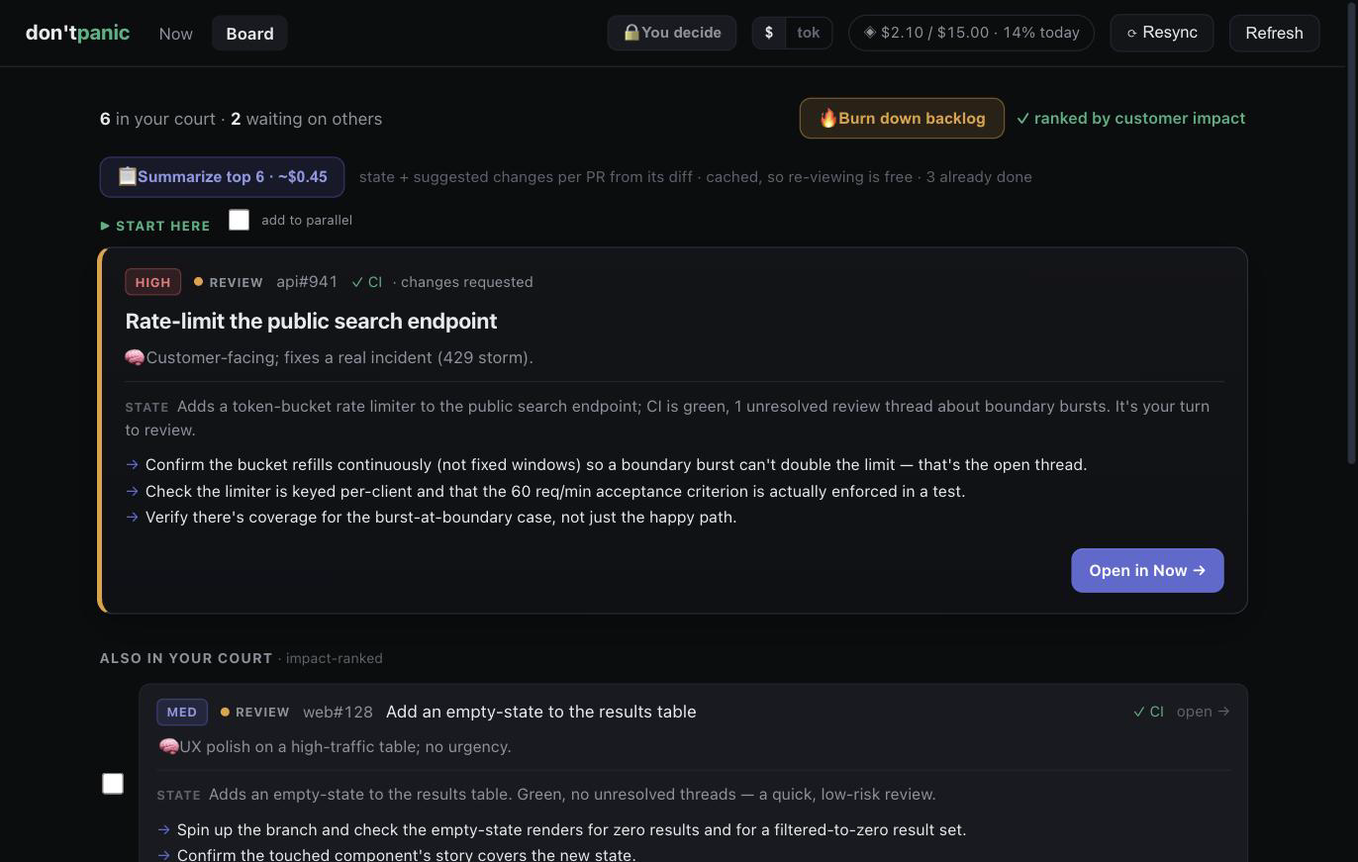
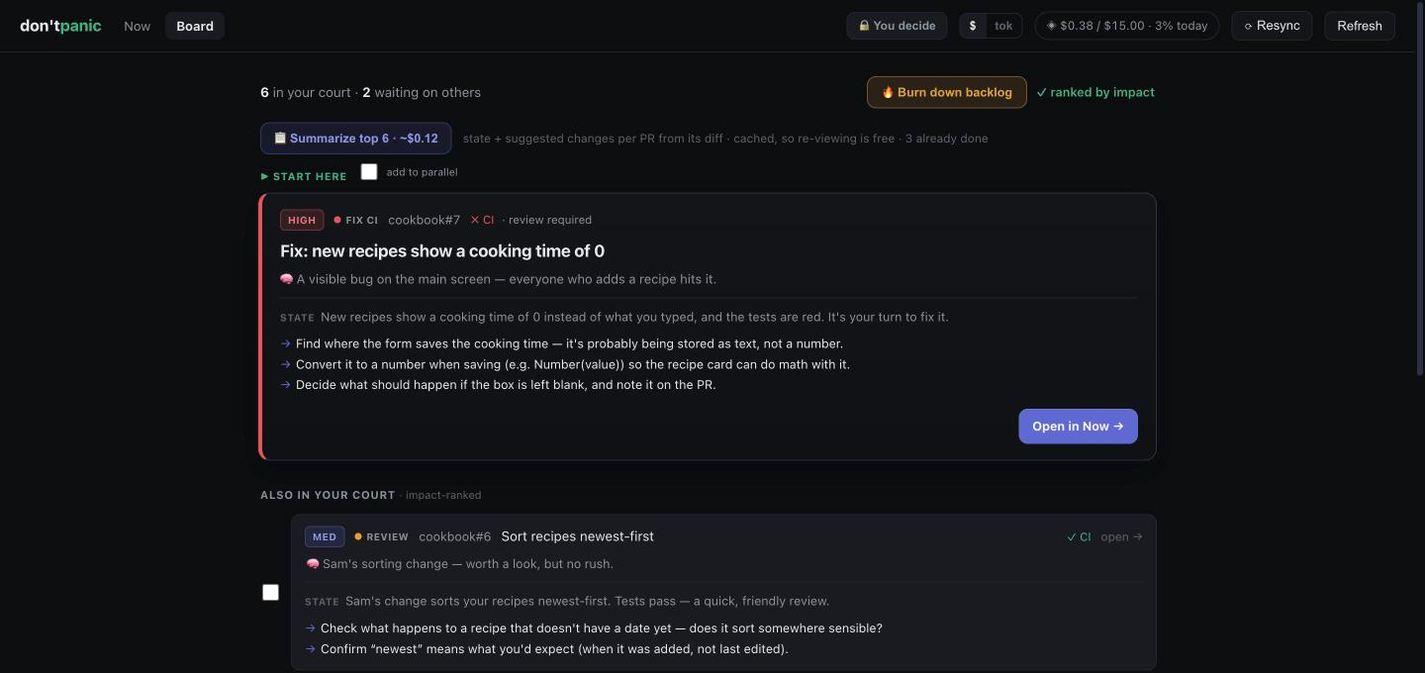
Beginner-friendly demo + new screenshots reflecting the learn-with-agents framing
Rework the demo fixtures from a senior-backend theme to a small "build a
recipe app with a friend" example so a first-time viewer isn't intimidated.
Add per-PR review jobs so each parallel card reasons about its own change,
and add a coaching screenshot (the clearest "you're learning" moment) to the
README. Soften "customer impact" -> "impact" throughout.

diff --git a/src/commands/demo.ts b/src/commands/demo.ts
@@ -1,16 +1,18 @@
 // Demo mode: serve the real dashboard pages backed by canned, public-safe fixtures —
-// no gh, no claude, no token spend. Used to capture UI screenshots for docs.
+// no gh, no claude, no token spend. Used to try the UI and capture screenshots.
+// The scenario is deliberately BEGINNER-FRIENDLY: you're building a small recipe app
+// ("Cookbook") with a friend (Sam), so the tasks, context, and coaching are approachable
+// to someone new to building — not senior-backend jargon.
 import Fastify from "fastify";
 import fastifyStatic from "@fastify/static";
 
-// ---- synthetic, public-safe data (neutral repos/names/titles) ----
 const pr = (o: Record<string, unknown>) => ({
-  repo: `acme/${o.shortRepo}`,
-  shortRepo: o.shortRepo,
+  repo: "you/cookbook",
+  shortRepo: "cookbook",
   number: o.number,
   title: o.title,
-  url: `https://github.com/acme/${o.shortRepo}/pull/${o.number}`,
-  author: o.author ?? "octocat",
+  url: `https://github.com/you/cookbook/pull/${o.number}`,
+  author: o.author ?? "you",
   turn: o.turn,
   ci: o.ci ?? "passing",
   mergeable: o.mergeable ?? "MERGEABLE",
@@ -20,30 +22,30 @@ const pr = (o: Record<string, unknown>) => ({
 });
 
 const MINE = [
-  pr({ shortRepo: "api", number: 903, title: "Fix cache invalidation on profile update", turn: "mine_fix", ci: "failing", mergeable: "CONFLICTING", reviewDecision: "REVIEW_REQUIRED" }),
-  pr({ shortRepo: "web", number: 112, title: "Debounce autosave to cut redundant writes", turn: "mine_respond", ci: "passing", reviewDecision: "CHANGES_REQUESTED" }),
-  pr({ shortRepo: "api", number: 870, title: "Bump dependencies + regenerate lockfile", turn: "ready_merge", ci: "passing", reviewDecision: "APPROVED" }),
-  pr({ shortRepo: "web", number: 131, title: "Add keyboard nav to the command palette", turn: "mine_request_review" }),
-  pr({ shortRepo: "api", number: 812, title: "Retry transient 5xx from the payments provider", turn: "theirs_review", reviewers: ["alexk"] }),
+  pr({ number: 7, title: "Fix: new recipes show a cooking time of 0", turn: "mine_fix", ci: "failing", reviewDecision: "REVIEW_REQUIRED" }),
+  pr({ number: 5, title: "Add a favorite ♥ button to recipes", turn: "mine_respond", ci: "passing", reviewDecision: "CHANGES_REQUESTED" }),
+  pr({ number: 8, title: "Add a friendly welcome screen for your first recipe", turn: "ready_merge", ci: "passing", reviewDecision: "APPROVED" }),
+  pr({ number: 9, title: "Search your recipes by ingredient", turn: "mine_request_review" }),
+  pr({ number: 4, title: "Add a photo to each recipe", turn: "theirs_review", reviewers: ["sam"] }),
 ];
 const REVIEW = [
-  pr({ shortRepo: "api", number: 941, title: "Rate-limit the public search endpoint", turn: "mine_review", author: "priyanair", ci: "passing", reviewDecision: "CHANGES_REQUESTED" }),
-  pr({ shortRepo: "web", number: 128, title: "Add an empty-state to the results table", turn: "mine_review", author: "jlee", ci: "passing" }),
-  pr({ shortRepo: "web", number: 130, title: "Skeleton loaders for the dashboard cards", turn: "theirs_author", author: "octocat" }),
+  pr({ number: 6, title: "Sort recipes newest-first", turn: "mine_review", author: "sam" }),
+  pr({ number: 3, title: "Add a Print button to a recipe", turn: "mine_review", author: "sam" }),
+  pr({ number: 10, title: "Add a dark-mode toggle", turn: "theirs_author", author: "sam" }),
 ];
 
 const EST = {
-  prioritize: { usd: 0.5, tokens: 35000, n: 0, learned: false },
-  enrich: { usd: 0.7, tokens: 45000, n: 0, learned: false },
-  review: { usd: 1.0, tokens: 70000, n: 3, learned: true },
-  fix: { usd: 2.0, tokens: 120000, n: 1, learned: true },
-  meeting: { usd: 0.2, tokens: 15000, n: 0, learned: false },
-  ping: { usd: 0.15, tokens: 10000, n: 0, learned: false },
-  brief: { usd: 0.15, tokens: 40000, n: 4, learned: true },
+  prioritize: { usd: 0.05, tokens: 12000, n: 0, learned: false },
+  enrich: { usd: 0.07, tokens: 14000, n: 0, learned: false },
+  review: { usd: 0.08, tokens: 9000, n: 3, learned: true },
+  fix: { usd: 0.12, tokens: 14000, n: 1, learned: true },
+  meeting: { usd: 0.05, tokens: 8000, n: 0, learned: false },
+  ping: { usd: 0.03, tokens: 5000, n: 0, learned: false },
+  brief: { usd: 0.04, tokens: 10000, n: 3, learned: true },
 };
 
 const STATUS = {
-  today: 2.1, session: 2.1, todayTokens: 480000, sessionTokens: 480000,
+  today: 0.38, session: 0.38, todayTokens: 92000, sessionTokens: 92000,
   limitUsd: 15, limitTokens: 2000000, est: EST, autoSpend: false, defaultAgent: "claude",
   lastSyncAt: 1786000000000, codex: true,
   turnOrder: ["mine_review", "mine_respond", "ready_merge", "mine_fix", "mine_request_review"],
@@ -51,111 +53,139 @@ const STATUS = {
 };
 
 const PLAN = {
-  date: "Tuesday, Aug 18", meetingCount: 1, calendar: true, focusMins: 120, deferred: 2, courtZero: "11:40a",
+  date: "Tuesday, Aug 18", meetingCount: 1, calendar: true, focusMins: 95, deferred: 1, courtZero: "11:05a",
   day: [
-    { type: "task", shortRepo: "api", number: 941, title: REVIEW[0].title, kind: "Review", mins: 20, start: "9:00a" },
-    { type: "meeting", id: "m1", start: "9:30a", title: "AI Pod Standup", kind: "standup", mins: 30 },
-    { type: "task", shortRepo: "web", number: 128, title: REVIEW[1].title, kind: "Review", mins: 20, start: "10:00a" },
-    { type: "task", shortRepo: "api", number: 870, title: MINE[2].title, kind: "Merge", mins: 10, start: "10:20a" },
-    { type: "task", shortRepo: "api", number: 903, title: MINE[0].title, kind: "Fix CI", mins: 20, start: "10:30a" },
-    { type: "task", shortRepo: "web", number: 112, title: MINE[1].title, kind: "Respond", mins: 15, start: "10:50a" },
+    { type: "task", shortRepo: "cookbook", number: 7, title: MINE[0].title, kind: "Fix CI", mins: 20, start: "9:00a" },
+    { type: "meeting", id: "m1", start: "9:30a", title: "Catch up with Sam", kind: "meeting", mins: 20 },
+    { type: "task", shortRepo: "cookbook", number: 6, title: REVIEW[0].title, kind: "Review", mins: 15, start: "9:50a" },
+    { type: "task", shortRepo: "cookbook", number: 8, title: MINE[2].title, kind: "Merge", mins: 10, start: "10:05a" },
+    { type: "task", shortRepo: "cookbook", number: 5, title: MINE[1].title, kind: "Respond", mins: 15, start: "10:15a" },
+    { type: "task", shortRepo: "cookbook", number: 9, title: MINE[3].title, kind: "Assign", mins: 10, start: "10:30a" },
   ],
 };
 
+// The Now page features your own bug fix (#7) — the most relatable "build with an agent" moment.
 const CONTEXT = {
-  changeType: "backend",
-  prompt: "# Review acme/api#941 — Rate-limit the public search endpoint\n\n[The PR's full unified diff is spliced in here when the agent runs.]",
+  changeType: "frontend",
+  prompt: "# Fix the failing tests on you/cookbook#7 — new recipes show a cooking time of 0\n\n[The failing test output is included here when the agent runs.]",
   sources: [
-    { name: "GitHub", connected: true, summary: "6-file diff (+184/−12); 3 review threads, 1 unresolved — e.g. “Use a sliding window, not fixed buckets, so a burst at the boundary can't double the limit.” CI passing." },
-    { name: "Linear", connected: true, summary: "Linked ENG-742 — acceptance criteria to check against." },
-    { name: "Slack", connected: false, summary: "Gather full context to surface the relevant discussion + the customer/incident 'why'." },
-    { name: "Logfire", connected: false, summary: "Not connected yet — will surface prod health for the touched paths." },
-    { name: "Braintrust", connected: false, summary: "No LLM / prompt change detected — nothing to pull." },
+    { name: "GitHub", connected: true, summary: "3-file change (+22/−4); 1 comment from Sam — “nice! does this handle when the cooking-time box is left blank?”. Tests are currently red." },
+    { name: "Linear", connected: false, summary: "No linked issue — totally fine for a personal project." },
+    { name: "Slack", connected: false, summary: "Gather full context to pull in what people said about this." },
   ],
 };
 
 const ENRICH = {
-  slack: "In #incidents, a customer hit 429s during a traffic spike last week — this endpoint was the culprit, so the limiter needs to be burst-tolerant.",
-  slackUrl: "https://example.slack.com/archives/C123/p123",
-  linear: "ENG-742: Add rate limiting to public search (High priority)",
-  linearUrl: "https://linear.app/acme/issue/ENG-742",
-  acceptance: "A single client cannot exceed 60 req/min, and a burst at a window boundary must not allow 2× the limit.",
+  slack: "A friend who tried the app messaged you: “I added a recipe and the cooking time shows 0 instead of the 30 minutes I typed.”",
+  slackUrl: "https://example.com/chat/123",
+  linear: "none found",
+  linearUrl: "",
+  acceptance: "A recipe should show the cooking time you actually entered — not 0.",
   explainer:
-    "src/search/handler.py is the single entry point for the public /search API — every unauthenticated query lands here. Today it has no rate limiting, so one noisy client can saturate the backend (the #incidents thread traces last week's 429 storm to exactly this path).\n\nThis PR adds a token-bucket limiter keyed by client IP, wired in as middleware before the handler. The bucket refills continuously rather than in fixed windows, which is the crux of the one unresolved review thread: fixed windows let a client fire a full burst at the end of one window and the start of the next, doubling the effective rate.\n\nThe deliverable is the limiter module, the middleware wiring, config for the per-client rate, and tests covering the boundary-burst case.",
+    "The recipe form (RecipeForm.js) saves whatever you type in the “cooking time” box. Right now it saves it as text — the characters “3” and “0” — not the number 30.\n\nLater, the recipe card tries to do a little math with the cooking time to show it nicely. Doing math on text gives “not a number”, which the app ends up showing as 0. That's the bug your friend hit.\n\nThe fix is to turn the text into a real number the moment it's saved. This is one of the most common surprises when you're new: the computer treats “30” (text) and 30 (a number) as completely different things.",
   gaps: [
-    { gap: "No load-test evidence that the limiter holds under the incident's traffic shape.", action: "Ask the author in #eng to attach a k6 run at ~2× the incident's peak RPS." },
+    { gap: "It's not decided what should happen if the cooking-time box is left empty.", action: "Make a quick call (with Sam?) — default it to blank, or ask again? Jot the decision on the PR so future-you remembers." },
   ],
   coach: {
-    concept: "Token bucket vs fixed-window rate limiting",
-    note: "A token bucket refills at a steady rate and allows short bursts up to the bucket size, while smoothing the sustained rate — unlike fixed windows, which permit a 2× burst across a boundary. That boundary-burst is exactly what the unresolved thread is guarding against.",
+    concept: "Text vs. numbers",
+    note: "Your form stored the cooking time as text (\"30\"), but the app tried to do math with it — and math on text gives \"NaN\", which showed up as 0. Converting it with Number(...) when you save is the fix. \"What type is this value — text or a number?\" is a question you'll ask constantly, and catching it early saves a lot of head-scratching.",
   },
 };
 
 const PRIORITY = {
-  topKey: "api#941",
-  topReason: "It's a customer-facing rate-limit fix tied to a real incident (429s during a traffic spike) — closing your review unblocks a High-priority Linear issue.",
+  topKey: "cookbook#7",
+  topReason: "It's a bug anyone sees the moment they add a recipe — the cooking time shows 0. Fixing it makes the whole app feel trustworthy, so it's the best place to start.",
   ranked: [
-    { key: "api#941", impact: "high", reason: "Customer-facing; fixes a real incident (429 storm)." },
-    { key: "web#128", impact: "med", reason: "UX polish on a high-traffic table; no urgency." },
-    { key: "api#870", impact: "low", reason: "Dependency bump — approved & green, just merge." },
-    { key: "api#903", impact: "high", reason: "Your CI is red on a cache-correctness bug." },
-    { key: "web#112", impact: "med", reason: "Reviewer asked for a debounce tweak." },
+    { key: "cookbook#7", impact: "high", reason: "A visible bug on the main screen — everyone who adds a recipe hits it." },
+    { key: "cookbook#6", impact: "med", reason: "Sam's sorting change — worth a look, but no rush." },
+    { key: "cookbook#8", impact: "low", reason: "The welcome screen is done and approved — just merge it." },
+    { key: "cookbook#5", impact: "med", reason: "Sam asked a question on your favorite-button PR." },
   ],
 };
 
 const BRIEFS: Record<string, { state: string; suggestions: string[] }> = {
-  "api#941": {
-    state: "Adds a token-bucket rate limiter to the public search endpoint; CI is green, 1 unresolved review thread about boundary bursts. It's your turn to review.",
+  "cookbook#7": {
+    state: "New recipes show a cooking time of 0 instead of what you typed, and the tests are red. It's your turn to fix it.",
     suggestions: [
-      "Confirm the bucket refills continuously (not fixed windows) so a boundary burst can't double the limit — that's the open thread.",
-      "Check the limiter is keyed per-client and that the 60 req/min acceptance criterion is actually enforced in a test.",
-      "Verify there's coverage for the burst-at-boundary case, not just the happy path.",
+      "Find where the form saves the cooking time — it's probably being stored as text, not a number.",
+      "Convert it to a number when saving (e.g. Number(value)) so the recipe card can do math with it.",
+      "Decide what should happen if the box is left blank, and note it on the PR.",
     ],
   },
-  "web#128": {
-    state: "Adds an empty-state to the results table. Green, no unresolved threads — a quick, low-risk review.",
-    suggestions: ["Spin up the branch and check the empty-state renders for zero results and for a filtered-to-zero result set.", "Confirm the touched component's story covers the new state."],
+  "cookbook#6": {
+    state: "Sam's change sorts your recipes newest-first. Tests pass — a quick, friendly review.",
+    suggestions: [
+      "Check what happens to a recipe that doesn't have a date yet — does it sort somewhere sensible?",
+      "Confirm “newest” means what you'd expect (when it was added, not last edited).",
+    ],
   },
-  "api#870": {
-    state: "Routine dependency bump + lockfile regen. Approved and green — ready to merge.",
-    suggestions: ["Skim the lockfile diff for any unexpected major-version jumps, then merge."],
+  "cookbook#8": {
+    state: "A welcome screen for before you've saved any recipes. Done and approved — ready to merge.",
+    suggestions: ["Give it one last look at phone size, then merge it."],
   },
 };
 
-const REVIEW_JOB = {
-  id: "job1_941", repo: "acme/api", number: 941, kind: "review", status: "done", backend: "claude",
-  steps: ["Assembling diff + context… (claude)", "Read diff (196 lines) + gathered context. Reviewing…", "✓ Review ready."],
-  segments: [
-    { kind: "reasoning", text: "Let me check how the limiter tracks time.\nThe bucket refills based on elapsed wall-clock, which is good — that's continuous, not fixed windows. But I want to confirm the boundary case the reviewer flagged." },
-    { kind: "tool", text: "Grep" },
-    { kind: "reasoning", text: "The test file covers a steady-rate case and a single-burst case, but I don't see a test that fires a burst straddling two windows. That's the exact scenario from the incident, so it should be covered." },
-    { kind: "text", text: '{"verdict":"request_changes","summary":"Solid token-bucket implementation, but the boundary-burst case the reviewer raised isn\'t tested.","findings":[...]}' },
-  ],
-  result: {
-    verdict: "request_changes",
-    summary: "Solid token-bucket implementation that matches the incident's need, but the boundary-burst case the open thread raises has no test — add one before merging.",
-    findings: [
-      { point: "No test fires a burst straddling two refill intervals — the exact 2× scenario from the incident.", file: "tests/test_ratelimit.py", line: 88 },
-      { point: "The per-client key uses the raw IP; behind a proxy this collapses all clients to one. Confirm X-Forwarded-For handling.", file: "src/search/limiter.py", line: 34 },
+// Reviewing Sam's PRs — a gentle, encouraging approve. One job per PR so each
+// review card in the parallel grid reads about its own change (not a shared blurb).
+const REVIEW_JOBS: Record<number, any> = {
+  6: {
+    id: "job1_6", repo: "you/cookbook", number: 6, kind: "review", status: "done", backend: "claude",
+    steps: ["Assembling the change + context… (claude)", "Read the change (18 lines). Reviewing…", "✓ Review ready."],
+    segments: [
+      { kind: "reasoning", text: "Let me see how Sam's change sorts the recipes.\nIt orders them by the date each recipe was added, newest first — that matches what \"newest-first\" should mean." },
+      { kind: "tool", text: "Read" },
+      { kind: "reasoning", text: "One thing to check: a brand-new recipe that hasn't been saved has no date yet. It looks like those fall to the bottom rather than erroring, which is fine. The change is small and safe." },
+      { kind: "text", text: '{"verdict":"approve","summary":"Clean, safe change — recipes now show newest-first...","findings":[...]}' },
     ],
+    result: {
+      verdict: "approve",
+      summary: "Nice — recipes now show newest-first, and ones without a date still behave sensibly. Good to merge.",
+      findings: [
+        { point: "Optional idea: show the date on each recipe card so the order is obvious to anyone looking.", file: "RecipeCard.js", line: 12 },
+      ],
+    },
+    costUsd: 0.08, tokens: 9200, durationMs: 16000,
   },
-  costUsd: 0.91, tokens: 68400, durationMs: 41000,
+  3: {
+    id: "job1_3", repo: "you/cookbook", number: 3, kind: "review", status: "done", backend: "claude",
+    steps: ["Assembling the change + context… (claude)", "Read the change (14 lines). Reviewing…", "✓ Review ready."],
+    segments: [
+      { kind: "reasoning", text: "Sam added a \"Print\" button to a recipe. Let me check what it actually prints.\nIt opens the browser's print dialog showing just the recipe — not the site header or the other buttons." },
+      { kind: "tool", text: "Read" },
+      { kind: "reasoning", text: "It uses a print-only stylesheet, so the page still looks normal on screen and only the recipe ends up on paper. Small and safe." },
+      { kind: "text", text: '{"verdict":"approve","summary":"Clean print view — just the recipe...","findings":[...]}' },
+    ],
+    result: {
+      verdict: "approve",
+      summary: "Prints cleanly — just the recipe, none of the site chrome. Good to merge.",
+      findings: [
+        { point: "Optional: add a little page margin so the title isn't right against the edge of the paper.", file: "RecipeView.js", line: 8 },
+      ],
+    },
+    costUsd: 0.08, tokens: 8600, durationMs: 15000,
+  },
 };
+const REVIEW_JOB = REVIEW_JOBS[6];
+function reviewJobFor(task: string | undefined): any {
+  const n = Number((task || "").split("#")[1]);
+  return REVIEW_JOBS[n] || REVIEW_JOB;
+}
 
+// Fixing your own bug (#7) — a small, readable change you approve.
 const FIX_JOB = {
-  id: "fix1_903", repo: "acme/api", number: 903, branch: "fix/cache-invalidation", status: "proposed", backend: "codex",
-  steps: ["Preparing isolated clone… (codex)", "Cloned (isolated, partial).", "Checking out PR #903 in the isolated clone…", "✓ Proposed a diff — review it, then push when you're happy."],
+  id: "fix1_7", repo: "you/cookbook", number: 7, branch: "fix/cooking-time", status: "proposed", backend: "claude",
+  steps: ["Preparing a safe copy of your project… (claude)", "Made a copy (it won't touch your working folder).", "Checking out PR #7…", "✓ Proposed a change — read it, then apply it when you're happy."],
   segments: [
-    { kind: "reasoning", text: "The failing test expects the profile cache to be evicted on update, but the update path only writes the DB. I need to invalidate the cache key after the write commits." },
+    { kind: "reasoning", text: "The failing test says a recipe saved with \"30\" shows 0. The form is storing the cooking time as text, and the recipe card does math with it — math on text gives NaN, shown as 0." },
     { kind: "tool", text: "Edit" },
-    { kind: "reasoning", text: "Added an explicit cache.delete(profile_key) after the transaction commits, and a test asserting a stale read can't happen." },
+    { kind: "reasoning", text: "I converted the value to a number when it's saved, and added a small test: adding \"30\" should show 30, not 0." },
   ],
-  diffStat: "2 files changed, 18 insertions(+), 3 deletions(-)",
-  diff: "diff --git a/src/profile/service.py b/src/profile/service.py\n@@ -41,6 +41,9 @@ def update_profile(uid, data):\n     with db.transaction():\n         db.profiles.update(uid, data)\n+    # Invalidate the cache AFTER the write commits, or a concurrent read repopulates stale data.\n+    cache.delete(profile_key(uid))\n     return db.profiles.get(uid)\n",
-  costUsd: null, tokens: 51200,
+  diffStat: "2 files changed, 9 insertions(+), 2 deletions(-)",
+  diff: "diff --git a/src/RecipeForm.js b/src/RecipeForm.js\n@@ -18,7 +18,8 @@ function saveRecipe(form) {\n   const recipe = {\n     name: form.name,\n-    cookTime: form.cookTime,\n+    // Store the cooking time as a number so the recipe card can do math with it.\n+    cookTime: Number(form.cookTime) || 0,\n   };\n   return db.recipes.add(recipe);\n",
+  costUsd: 0.12, tokens: 14200,
 };
 
-/** Start a demo dashboard: real pages, canned fixtures, no external calls. */
+/** Start a demo dashboard: real pages, canned beginner-friendly fixtures, no external calls. */
 export async function startDemoDashboard(port: number, pubDir: string): Promise<void> {
   const app = Fastify({ logger: false });
   await app.register(fastifyStatic, { root: pubDir, prefix: "/" });
@@ -163,21 +193,24 @@ export async function startDemoDashboard(port: number, pubDir: string): Promise<
   app.get("/parallel", (_req, reply) => reply.sendFile("parallel.html"));
 
   app.get("/api/status", async () => STATUS);
-  app.get("/api/prs", async () => ({ me: "octocat", mine: MINE, review: REVIEW }));
+  app.get("/api/prs", async () => ({ me: "you", mine: MINE, review: REVIEW }));
   app.get("/api/plan", async () => PLAN);
   app.post("/api/priority", async () => PRIORITY);
   app.get("/api/briefs", async () => ({ briefs: BRIEFS }));
   app.post("/api/briefs", async () => ({ briefs: BRIEFS }));
-  app.get("/api/now", async () => ({ task: { ...REVIEW[0], turn: "mine_review" }, context: CONTEXT }));
+  app.get("/api/now", async () => ({ task: { ...MINE[0], turn: "mine_fix" }, context: CONTEXT }));
   app.get("/api/now/prompt", async () => ({ prompt: CONTEXT.prompt, gathered: true }));
   app.post("/api/now/enrich", async () => ENRICH);
-  app.post("/api/now/launch", async () => ({ jobId: REVIEW_JOB.id }));
+  app.post<{ Querystring: { task?: string } }>("/api/now/launch", async (req) => ({ jobId: reviewJobFor(req.query.task).id }));
   app.post("/api/now/fix", async () => ({ jobId: FIX_JOB.id }));
-  app.get("/api/jobs/:id", async () => REVIEW_JOB);
+  app.get<{ Params: { id: string } }>("/api/jobs/:id", async (req) => {
+    const hit = Object.values(REVIEW_JOBS).find((j) => j.id === req.params.id);
+    return hit || REVIEW_JOB;
+  });
   app.get("/api/fix/:id", async () => FIX_JOB);
   app.get<{ Querystring: { id?: string } }>("/api/meeting", async () => ({
-    title: "AI Pod Standup", kind: "standup", when: "9:30–10:00 AM", attendees: ["you", "teammate-a", "teammate-b"],
-    prep: "Shipped: api#870 (deps). In review: api#812. Today: fix api#903 (cache), review api#941 (rate limit).",
+    title: "Catch up with Sam", kind: "meeting", when: "9:30–9:50 AM", attendees: ["you", "sam"],
+    prep: "Quick check-in on the recipe app. Shipped: the welcome screen (#8). Today: fixing the cooking-time bug (#7). Ask Sam: what should a blank cooking time do?",
     conferenceUrl: "", htmlLink: "",
   }));
 

diff --git a/src/commands/public/index.html b/src/commands/public/index.html
@@ -370,7 +370,7 @@
         const top = court[0];
         const rest = court.slice(1);
         const rankSlot = IMPMAP
-          ? `<span class="ranked-note">✓ ranked by customer impact</span>`
+          ? `<span class="ranked-note">✓ ranked by impact</span>`
           : `<button class="btn-rank" id="rankBtn">🧠 Rank by impact · <span class="cost" data-cost="prioritize"></span></button><span class="cost-note">reasons over your queue</span>`;
 
         const heroHtml = top
@@ -391,7 +391,7 @@
           ${briefBar()}
           <div id="burnConfirm" class="burn-confirm" style="display:none"></div>
           ${heroHtml}
-          ${rest.length ? `<h2>Also in your court <span class="nt">· ${IMPMAP ? "impact-ranked" : "heuristic order — rank by impact to sort by customer impact"}</span></h2>${restHtml}` : ""}
+          ${rest.length ? `<h2>Also in your court <span class="nt">· ${IMPMAP ? "impact-ranked" : "heuristic order — rank by impact"}</span></h2>${restHtml}` : ""}
           <h2>Waiting on others <span class="nt">· the ball's not in your court</span></h2>
           ${waitHtml}`;
         const rb = document.getElementById("rankBtn");
@@ -483,7 +483,7 @@
           slot.innerHTML = `<span class="burn-note">⚠ Couldn't reach GitHub just now — showing last-synced data.</span> <button class="btn-cancel" id="rsClose">close</button>`;
         } else {
           const est = UNIT === "tok" ? `~${fmtTok(EST_TOK.prioritize || 0)} tok` : `~$${(EST.prioritize || 0).toFixed(2)}`;
-          slot.innerHTML = `<span class="burn-note">✓ Resynced from GitHub. Re-rank your court by <b>customer impact</b>?</span> <button class="btn-rank" id="rsRank">🧠 Rank by impact · ${est}</button> <button class="btn-cancel" id="rsClose">not now</button>`;
+          slot.innerHTML = `<span class="burn-note">✓ Resynced from GitHub. Re-rank your court by <b>impact</b>?</span> <button class="btn-rank" id="rsRank">🧠 Rank by impact · ${est}</button> <button class="btn-cancel" id="rsClose">not now</button>`;
           document.getElementById("rsRank").onclick = () => { slot.style.display = "none"; slot.innerHTML = ""; rankByImpact(); };
         }
         document.getElementById("rsClose").onclick = () => { slot.style.display = "none"; slot.innerHTML = ""; };

diff --git a/src/commands/public/now.html b/src/commands/public/now.html
@@ -399,7 +399,7 @@
       }
       async function doPrioritize(task) {
         const el = document.getElementById("priority");
-        el.innerHTML = `<div class="prio"><span class="gathering">🧠 prioritizing by customer impact…</span></div>`;
+        el.innerHTML = `<div class="prio"><span class="gathering">🧠 working out what matters most…</span></div>`;
         let p;
         try { p = await (await fetch("/api/priority", { method: "POST" })).json(); } catch (e) { el.innerHTML = ""; return; }
         fetchStatus();

diff --git a/README.md b/README.md
@@ -12,25 +12,29 @@ It has no API keys of its own. All the AI work runs through your **Claude Code C
 
 ---
 
+> The screenshots below are from **demo mode** — a tiny, beginner-friendly example (building a recipe app with a friend). Everything you see is a real page; run it yourself with `dontpanic dashboard --demo` (no setup, no tokens).
+
 ## Screenshots
 
-**The Board** — your practice queue: every PR in your court, with a per-PR brief so you learn to size up a task before spending anything:
+**The Board** — your practice queue: everything in your court, ranked by impact, each with a plain-language "why this one" so you learn to size up a task before spending anything:
 
 ![Board](assets/board.png)
 
-**Now — managing context** — gather what the agent needs, see what's still missing, and read the exact prompt it will run:
+**Now — managing context** — one task at a time: what it is in plain English, what's still undecided, and a timeline that keeps the current task centered:
 
 ![Now cockpit](assets/now.png)
 
-**Managing an agent** — launch it, watch its reasoning stream live, then approve (or reject) the cited verdict — you decide every write:
+**Learning as you go** — every task surfaces a small lesson grounded in the actual change (here: *text vs. numbers*), right next to the priced "launch the agent" button:
+
+![Coaching lesson](assets/coach.png)
+
+**Managing an agent** — launch it, watch its reasoning stream live, read the diff it proposes, then approve — nothing is pushed until you click:
 
 ![Agent streaming](assets/agent.png)
 
-**Supervising several at once** — the parallel grid, each agent with its own gated approve/push:
+**Supervising several at once** — the parallel grid, each agent working its own task with its own gated approve/push:
 
 ![Parallel resolution](assets/parallel.png)
-
-> Try the UI yourself with no setup or tokens: `dontpanic dashboard --demo` (canned data).
 
 ---
 
